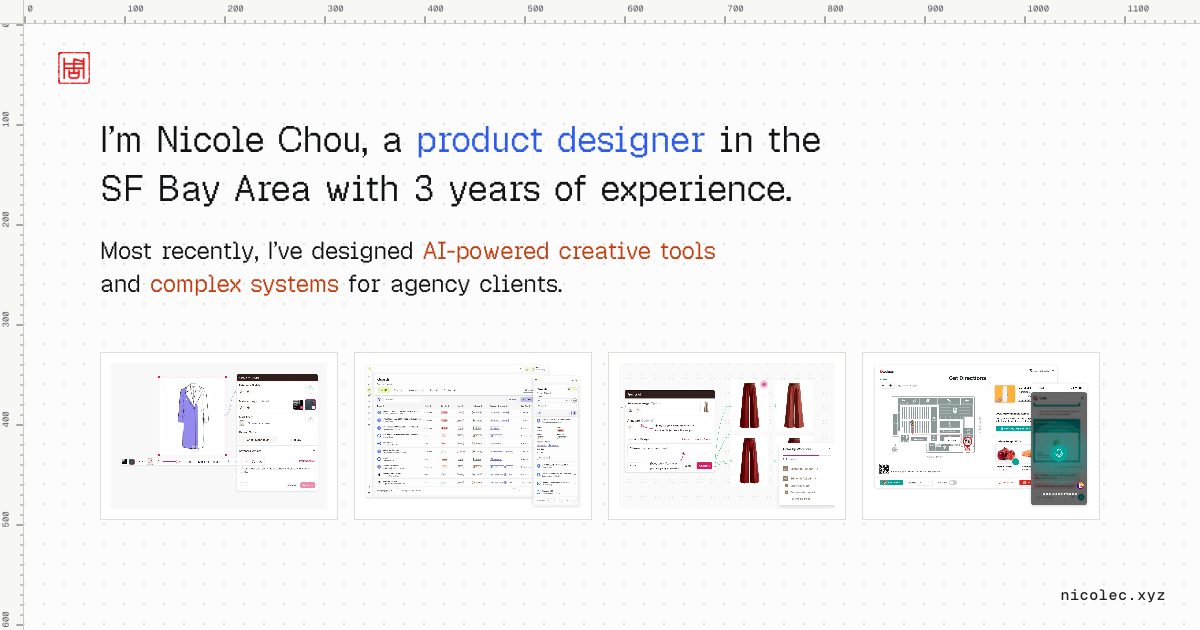
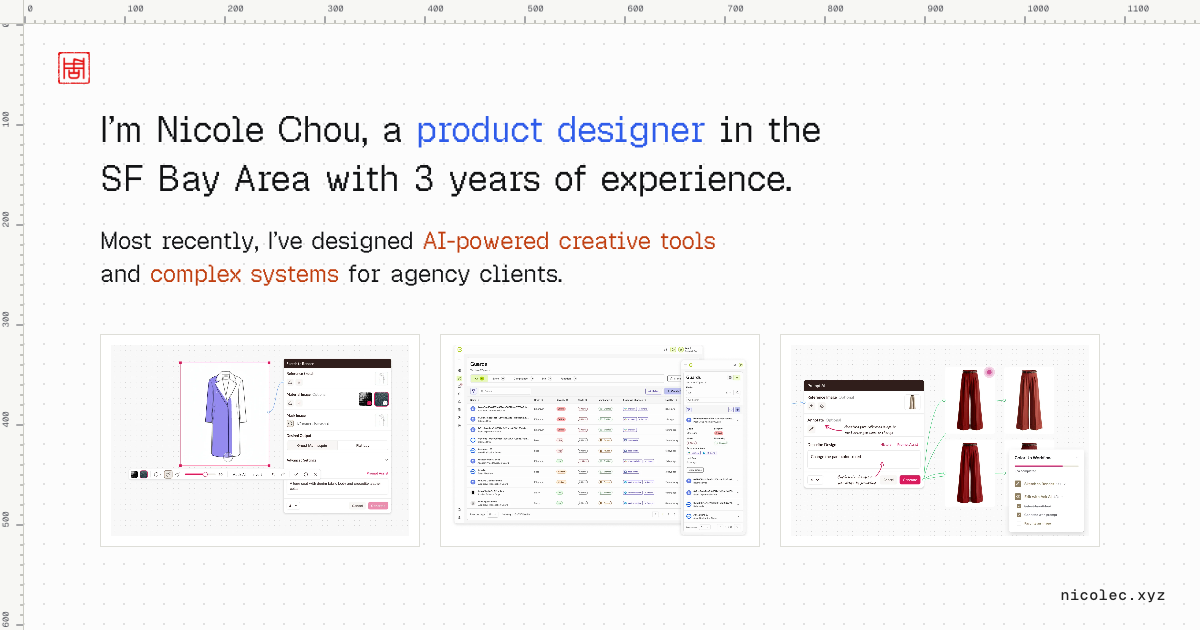
Hide Loblaw: remove from homepage, See more work, sitemap; noindex its page
Homepage social card rebuilt with three case-study thumbnails. See more work
stays 2-up when there are two cards. Slideshow dots get 24px tap targets
(WCAG 2.5.8).

diff --git a/index.html b/index.html
@@ -10,15 +10,15 @@
 <link rel="canonical" href="https://nicolec.xyz/">
 
 <!-- Open Graph / social preview. assets/social-card.png is a 1200x630 render
-     of the hero (dot grid, rulers, seal, intro, lede) above the four case-study thumbnails -->
+     of the hero (dot grid, rulers, seal, intro, lede) above the three case-study thumbnails -->
 <meta property="og:type" content="website">
 <meta property="og:title" content="Nicole Chou — Portfolio">
 <meta property="og:description" content="I’m Nicole Chou, a product designer in the SF Bay Area with 3 years of experience, most recently designing AI-powered creative tools and complex systems for agency clients.">
 <meta property="og:url" content="https://nicolec.xyz/">
-<meta property="og:image" content="https://nicolec.xyz/assets/social-card.png?v=e71d1074">
+<meta property="og:image" content="https://nicolec.xyz/assets/social-card.png?v=61af7a0a">
 <meta property="og:image:width" content="1200">
 <meta property="og:image:height" content="630">
-<meta property="og:image:alt" content="I’m Nicole Chou, a product designer in the SF Bay Area with 3 years of experience, above thumbnails of four case studies.">
+<meta property="og:image:alt" content="I’m Nicole Chou, a product designer in the SF Bay Area with 3 years of experience, above thumbnails of three case studies.">
 <meta name="twitter:card" content="summary_large_image">
 
 <link rel="icon" href="assets/favicon.png" type="image/png">
@@ -256,17 +256,6 @@ body.v2{padding-top:var(--gutter)}
             <p>Unified fragmented tools into guided workflows, leading 68.5% of fashion designers who start one to generate.</p>
           </div>
           <p class="meta"><span>2026</span><span>Product Designer</span></p>
-        </div>
-      </article>
-      <article class="card">
-        <div class="card-body">
-          <div class="sel-box" aria-hidden="true"><i></i><i></i><i></i><i></i></div>
-          <div class="thumb" data-hover="case-studies/loblaw-voice-assistant/Assets-new/web/00-hover.mp4?v=62e7004f"><img src="case-studies/loblaw-voice-assistant/Assets-new/web/00-card.webp?v=1539264c" alt="" width="1600" height="1064" loading="lazy"></div>
-          <div class="card-text">
-            <h3><a href="case-studies/loblaw-voice-assistant/">Loblaw Digital: An AI Shopping Assistant</a></h3>
-            <p>Turned static signage into voice-guided way-finding, with tailored solutions across app and kiosk.</p>
-          </div>
-          <p class="meta"><span>2025</span><span>Designer &amp; Prototyper</span></p>
         </div>
       </article>
     </div>

diff --git a/case-study.css b/case-study.css
@@ -392,14 +392,19 @@ body{padding-top:0}
 .cs-arrow:disabled{opacity:.4;cursor:default}
 .cs-arrow:not(:disabled):hover{border-color:var(--rule)}
 .cs-arrow:focus-visible{outline:2px solid var(--accent);outline-offset:2px}
-.cs-dots{display:flex;align-items:center;gap:8px}
+.cs-dots{display:flex;align-items:center;gap:0}
+/* 24px button for WCAG 2.5.8 target size; the visible pill is ::before */
 .cs-dot{
-  width:6px;height:6px;padding:0;border:0;border-radius:3px;
-  background:var(--edge);cursor:pointer;
+  display:flex;align-items:center;justify-content:center;
+  min-width:24px;height:24px;padding:0 2px;border:0;border-radius:4px;
+  background:none;cursor:pointer;
+}
+.cs-dot::before{
+  content:"";width:6px;height:6px;border-radius:3px;background:var(--edge);
   transition:width .2s ease,background .2s ease;
 }
-.cs-dot[aria-current="true"]{width:20px;background:var(--select)}
-.cs-dot:focus-visible{outline:2px solid var(--accent);outline-offset:2px}
+.cs-dot[aria-current="true"]::before{width:20px;background:var(--select)}
+.cs-dot:focus-visible{outline:2px solid var(--accent);outline-offset:0}
 
 /* ---------- quote (CS Quote Block, tilted marquee) ---------- */
 .cs-quote-wrap{padding:8px 6px}
@@ -444,9 +449,9 @@ body{padding-top:0}
 @media (min-width:900px){
   .cs-cards{display:grid;grid-template-columns:1fr 1fr;gap:32px}
 }
-/* three other case studies: one row at Figma's 1098px article width */
+/* three cards: one row at Figma's 1098px article width; two stay 2-up */
 @media (min-width:1100px){
-  .cs-cards{grid-template-columns:repeat(3,1fr)}
+  .cs-cards:has(> :nth-child(3)){grid-template-columns:repeat(3,1fr)}
 }
 /* ---------- footer (Footer, Page=Case Study) ---------- */
 .cs-footer{

diff --git a/case-studies/guardrail-system/index.html b/case-studies/guardrail-system/index.html
@@ -22,7 +22,7 @@
 <link rel="preconnect" href="https://fonts.gstatic.com" crossorigin>
 <link rel="stylesheet" href="https://fonts.googleapis.com/css2?family=Geist:wght@300..700&family=Geist+Mono:wght@400;500;700&family=Geist+Pixel&display=swap">
 <link rel="stylesheet" href="../../styles.css?v=53ae0c96">
-<link rel="stylesheet" href="../../case-study.css?v=837b9ed5">
+<link rel="stylesheet" href="../../case-study.css?v=03eb78eb">
 </head>
 <body>
 
@@ -331,17 +331,6 @@
             <p>Unified fragmented tools into guided workflows, leading 68.5% of fashion designers who start one to generate.</p>
           </div>
           <p class="meta"><span>2026</span><span>Product Designer</span></p>
-        </div>
-      </article>
-      <article class="card">
-        <div class="card-body">
-          <div class="sel-box" aria-hidden="true"><i></i><i></i><i></i><i></i></div>
-          <div class="thumb" data-hover="../loblaw-voice-assistant/Assets-new/web/00-hover.mp4?v=62e7004f"><img src="../loblaw-voice-assistant/Assets-new/web/00-card.webp?v=1539264c" width="1600" height="1064" alt="" loading="lazy"></div>
-          <div class="card-text">
-            <h3><a href="../loblaw-voice-assistant/">Loblaw Digital: An AI Shopping Assistant</a></h3>
-            <p>Turned static signage into voice-guided way-finding, with tailored solutions across app and kiosk.</p>
-          </div>
-          <p class="meta"><span>2025</span><span>Designer &amp; Prototyper</span></p>
         </div>
       </article>
     </div>

diff --git a/case-studies/masking-in-boards/index.html b/case-studies/masking-in-boards/index.html
@@ -22,7 +22,7 @@
 <link rel="preconnect" href="https://fonts.gstatic.com" crossorigin>
 <link rel="stylesheet" href="https://fonts.googleapis.com/css2?family=Geist:wght@300..700&family=Geist+Mono:wght@400;500;700&family=Geist+Pixel&display=swap">
 <link rel="stylesheet" href="../../styles.css?v=53ae0c96">
-<link rel="stylesheet" href="../../case-study.css?v=837b9ed5">
+<link rel="stylesheet" href="../../case-study.css?v=03eb78eb">
 </head>
 <body>
 
@@ -243,17 +243,6 @@
             <p>Unified fragmented tools into guided workflows, leading 68.5% of fashion designers who start one to generate.</p>
           </div>
           <p class="meta"><span>2026</span><span>Product Designer</span></p>
-        </div>
-      </article>
-      <article class="card">
-        <div class="card-body">
-          <div class="sel-box" aria-hidden="true"><i></i><i></i><i></i><i></i></div>
-          <div class="thumb" data-hover="../loblaw-voice-assistant/Assets-new/web/00-hover.mp4?v=62e7004f"><img src="../loblaw-voice-assistant/Assets-new/web/00-card.webp?v=1539264c" width="1600" height="1064" alt="" loading="lazy"></div>
-          <div class="card-text">
-            <h3><a href="../loblaw-voice-assistant/">Loblaw Digital: An AI Shopping Assistant</a></h3>
-            <p>Turned static signage into voice-guided way-finding, with tailored solutions across app and kiosk.</p>
-          </div>
-          <p class="meta"><span>2025</span><span>Designer &amp; Prototyper</span></p>
         </div>
       </article>
     </div>

diff --git a/case-studies/workflow-tutorials/index.html b/case-studies/workflow-tutorials/index.html
@@ -22,7 +22,7 @@
 <link rel="preconnect" href="https://fonts.gstatic.com" crossorigin>
 <link rel="stylesheet" href="https://fonts.googleapis.com/css2?family=Geist:wght@300..700&family=Geist+Mono:wght@400;500;700&family=Geist+Pixel&display=swap">
 <link rel="stylesheet" href="../../styles.css?v=53ae0c96">
-<link rel="stylesheet" href="../../case-study.css?v=837b9ed5">
+<link rel="stylesheet" href="../../case-study.css?v=03eb78eb">
 </head>
 <body>
 
@@ -300,17 +300,6 @@
             <p>Reduced developers’ custom styling by 90% and gave designers the foundation to expand the product.</p>
           </div>
           <p class="meta"><span>2025</span><span>Lead Product Designer</span></p>
-        </div>
-      </article>
-      <article class="card">
-        <div class="card-body">
-          <div class="sel-box" aria-hidden="true"><i></i><i></i><i></i><i></i></div>
-          <div class="thumb" data-hover="../loblaw-voice-assistant/Assets-new/web/00-hover.mp4?v=62e7004f"><img src="../loblaw-voice-assistant/Assets-new/web/00-card.webp?v=1539264c" width="1600" height="1064" alt="" loading="lazy"></div>
-          <div class="card-text">
-            <h3><a href="../loblaw-voice-assistant/">Loblaw Digital: An AI Shopping Assistant</a></h3>
-            <p>Turned static signage into voice-guided way-finding, with tailored solutions across app and kiosk.</p>
-          </div>
-          <p class="meta"><span>2025</span><span>Designer &amp; Prototyper</span></p>
         </div>
       </article>
     </div>

diff --git a/case-studies/loblaw-voice-assistant/index.html b/case-studies/loblaw-voice-assistant/index.html
@@ -4,6 +4,7 @@
 <meta charset="utf-8">
 <meta name="viewport" content="width=device-width, initial-scale=1">
 <meta name="color-scheme" content="light">
+<meta name="robots" content="noindex">
 <title>Loblaw Digital: An AI Shopping Assistant — Nicole Chou</title>
 <meta name="description" content="Turned static signage into voice-guided way-finding, with tailored solutions across app and kiosk.">
 <link rel="canonical" href="https://nicolec.xyz/case-studies/loblaw-voice-assistant/">
@@ -22,7 +23,7 @@
 <link rel="preconnect" href="https://fonts.gstatic.com" crossorigin>
 <link rel="stylesheet" href="https://fonts.googleapis.com/css2?family=Geist:wght@300..700&family=Geist+Mono:wght@400;500;700&family=Geist+Pixel&display=swap">
 <link rel="stylesheet" href="../../styles.css?v=53ae0c96">
-<link rel="stylesheet" href="../../case-study.css?v=837b9ed5">
+<link rel="stylesheet" href="../../case-study.css?v=03eb78eb">
 <style>
 /* Competitor audit (Figma: Component Frames -- purple label, outline and
    handles from styles.css .cframe -- around an unfilled Audit Card).
